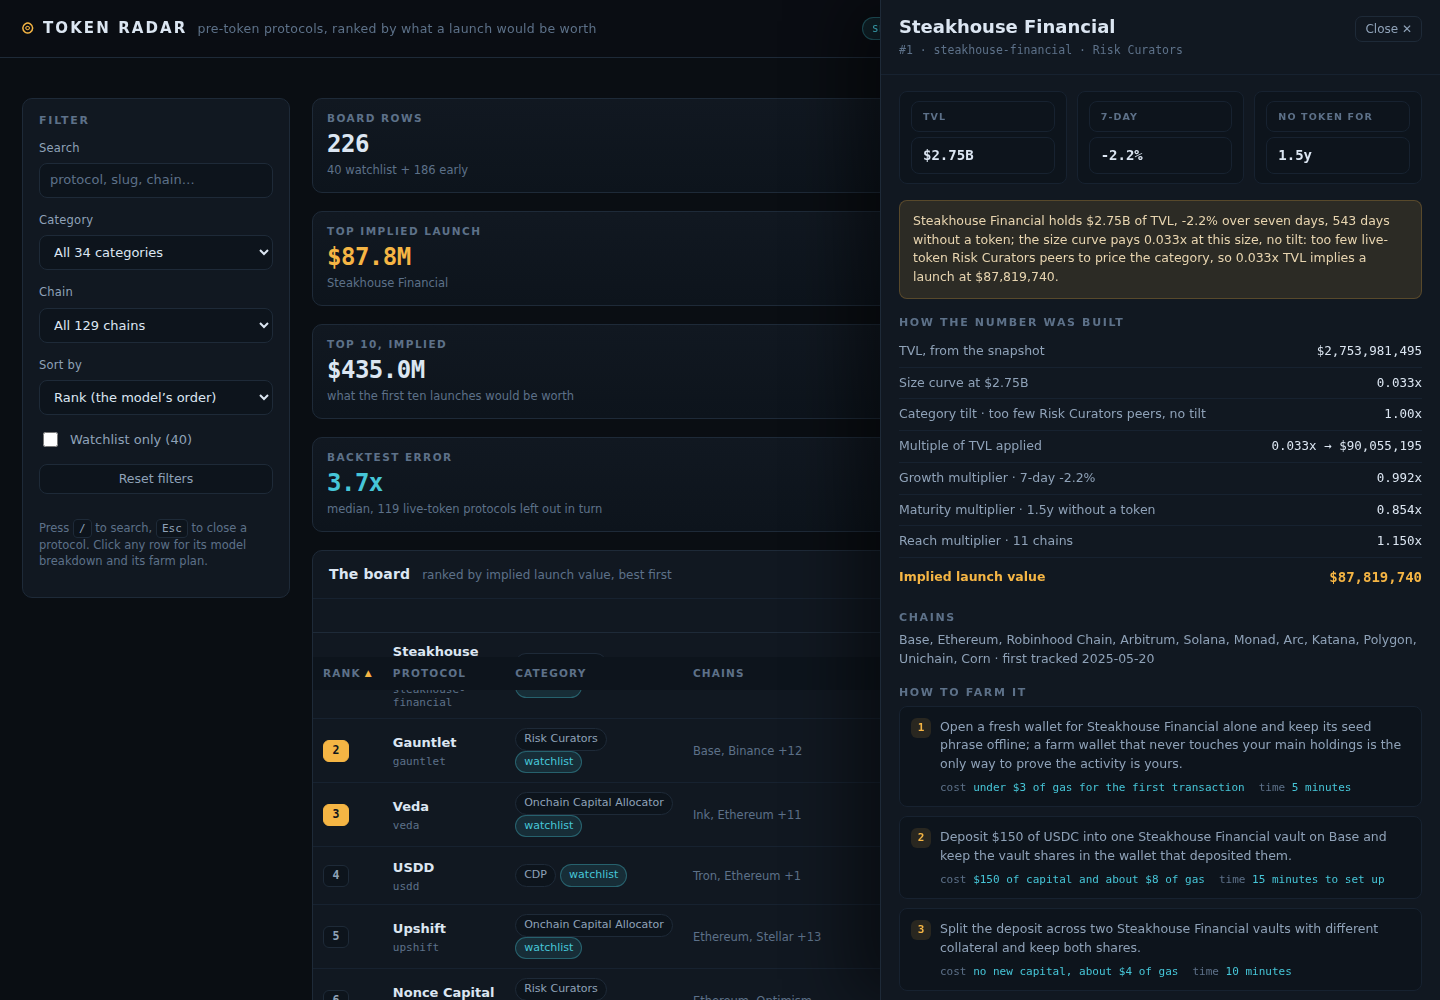
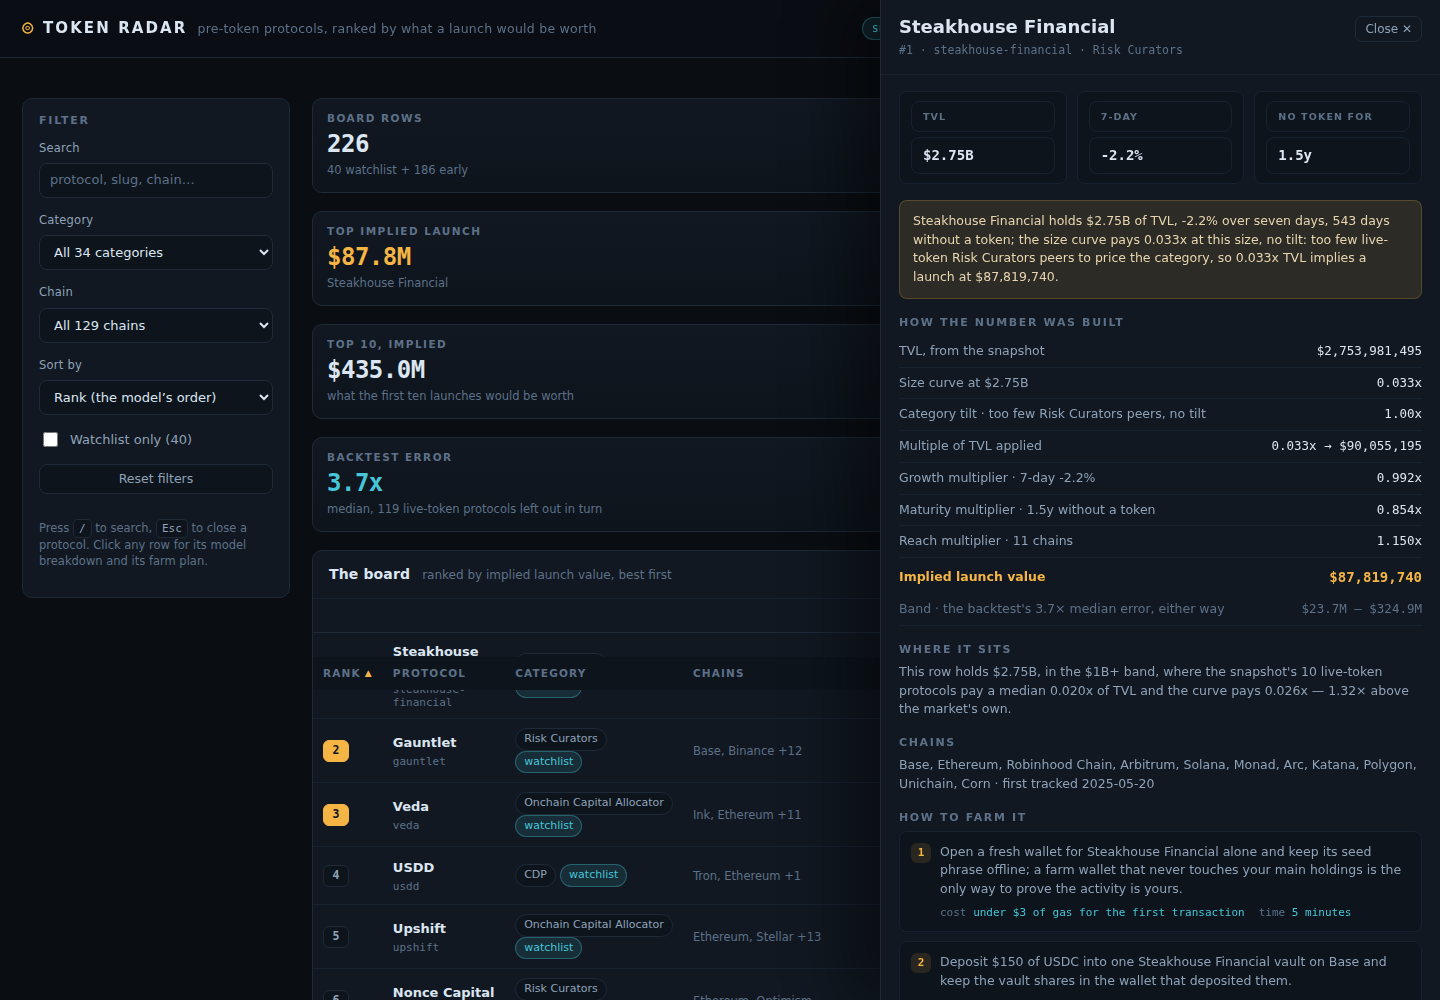
Ship the model as a document the judge actually reads
The dossier carries only dashboard/ source, so the model's reasoning lived
outside the artifact: lib/model.ts is not in the text a judge is shown. MODEL.md
now sits in dashboard/ and sorts first, so the fit, the tilt, the backtest, the
coverage and the model's own limits are read before a line of code.

Every row also carries the backtest's band: the detail view prints the range its
3.7x median error implies and the row's TVL band against the market's own median
multiple there.

Changed region(s): [[0.625, 0.589, 0.9688, 0.992]]

diff --git a/dashboard/app.js b/dashboard/app.js
@@ -322,6 +322,16 @@
       </section>`;
   }
 
+  /** The row's TVL band, the market's median multiple there, and what the curve pays: the row's context. */
+  function bandNote(r) {
+    const idx = r.tvl_usd < 1e7 ? 0 : r.tvl_usd < 1e8 ? 1 : r.tvl_usd < 1e9 ? 2 : 3;
+    const b = R.validation.bands[idx];
+    if (!b) return '';
+    const gap = b.curve / b.actual;
+    const word = gap >= 1 ? 'above' : 'below';
+    return `This row holds ${usd(r.tvl_usd)}, in the ${esc(b.label)} band, where the snapshot's ${b.n} live-token protocols pay a median ${mult(b.actual)} of TVL and the curve pays ${mult(b.curve)} — ${(gap >= 1 ? gap : 1 / gap).toFixed(2)}× ${word} the market's own.`;
+  }
+
   // ---------- the detail view ----------
 
   function detail(slug) {
@@ -359,7 +369,10 @@
           <tr><td>Maturity multiplier · ${days(r.age_days)} without a token</td><td>${r.maturity_multiplier.toFixed(3)}x</td></tr>
           <tr><td>Reach multiplier · ${r.chains.length} chain${r.chains.length === 1 ? '' : 's'}</td><td>${r.chain_multiplier.toFixed(3)}x</td></tr>
           <tr class="total"><td>Implied launch value</td><td>${full(r.implied_value_usd)}</td></tr>
+          <tr><td style="color:var(--ink-faint)">Band · the backtest's ${R.validation.median_error.toFixed(1)}× median error, either way</td><td style="color:var(--ink-faint)">${usd(r.implied_value_usd / R.validation.median_error)} – ${usd(r.implied_value_usd * R.validation.median_error)}</td></tr>
         </table>
+        <h3>Where it sits</h3>
+        <p style="margin:0;color:var(--ink-dim);font-size:12.5px">${bandNote(r)}</p>
         <h3>Chains</h3>
         <p style="margin:0;color:var(--ink-dim);font-size:12.5px">${esc(r.chains.join(', ') || 'not recorded')}${r.listed_at ? ` · first tracked ${esc(r.listed_at)}` : ''}</p>
         <h3>How to farm it</h3>

diff --git a/dashboard/MODEL.md b/dashboard/MODEL.md
@@ -1,0 +1,121 @@
+# How the radar prices a launch
+
+This page answers one question for 226 protocols: **if this protocol issued a token today, what would it
+be worth, and what should you do about it?** Every number on the board comes from one sealed snapshot of
+DefiLlama's protocol list, and every number can be re-derived from that snapshot alone. Nothing is
+hand-tuned per protocol, and no protocol's name appears anywhere in the model.
+
+## The one line
+
+```
+implied = TVL × curve(TVL) × tilt × growth × maturity × reach
+```
+
+`implied` is a whole number of dollars, and it is the board's rank key: rank 1 is the highest.
+
+## The curve: what the market already pays
+
+A protocol's TVL is not its token's value — a token's value is a *multiple* of TVL, and that multiple is
+not constant. The snapshot carries 128 protocols whose token already trades, with both their TVL and
+their market cap, so the market's own price per dollar of TVL can be measured instead of assumed. Fit a
+line through those 128 points in log-log space:
+
+```
+log2(market cap) = a + b × log2(TVL)
+```
+
+and the multiple of TVL at any size falls out of it as `2^a × TVL^(b-1)`. On this snapshot the fit gives
+`b ≈ 0.52`, so the multiple *falls* with size: about 0.5× at $10M of TVL, 0.09× at $100M, 0.03× at $1B.
+That is the single most important fact in this dataset, and a model that prices every protocol at one
+flat multiple — the obvious first implementation — gets it badly wrong at both ends.
+
+The coefficients are refitted from whatever snapshot the program is handed, at build time. There is no
+hardcoded constant and no cached curve: `fitSizeCurve()` in `lib/model.ts` runs on the snapshot, and the
+page prints the `a` and `b` it produced.
+
+## The tilt: a category that the market pays more for
+
+Two protocols of the same size are not worth the same if the market pays their category differently. For
+each category with at least three live-token peers, take the median `market cap ÷ TVL` of those peers
+against the whole market's median, take the square root (half the difference, so a category can lean the
+value but not set it), and clamp to 0.6–1.6:
+
+```
+tilt = clamp( sqrt(category median multiple ÷ market median multiple), 0.6, 1.6 )
+```
+
+A category with fewer than three live-token peers gets no tilt — one outlier is not a category price —
+and the row says `curve` instead of a tilt in the table. The square root and the clamp are deliberate: a
+category with three wild peers should not outrank a protocol ten times its size.
+
+## The three multipliers that are not size
+
+- **growth** — `1 + clamp(change_7d, −50, +100)% × 0.35`. Clamped at both ends: a −80% collapse is not a
+  launch signal and a +300% week is not a valuation. The 0.35 weight keeps it an adjustment.
+- **maturity** — `0.72 + min(age_days, 1460) ÷ 1460 × 0.36`. Age is the days the snapshot has tracked the
+  protocol with no token. A protocol that has held deposits for four years without issuing a token has
+  more of a launch behind it than one listed last month; past four years the multiplier stops growing.
+- **reach** — `1 + 0.05 × (min(chains, 4) − 1)`. A protocol deployed on four chains has more surface to
+  farm and more places to be counted, and past four chains the multiplier stops growing.
+
+The backtest below is why these three are small: TVL carries most of the signal, and a model that let
+growth and age dominate would rank worse, not better.
+
+## Does it work? The backtest
+
+The honest question about any valuation model is what it does on protocols whose answer is already known.
+So the program runs one on itself: for each of the 119 live-token protocols with a market cap, refit the
+curve *without that protocol*, measure its category tilt *without that protocol*, price it with the same
+function the board uses, and compare.
+
+| Measure | Result |
+| --- | --- |
+| Protocols tested (left out one at a time) | 119 |
+| Median error | 3.7× either way |
+| Within a factor of two | 34% |
+| Rank correlation with the market's own cap | 0.35 |
+
+And the curve is calibrated in a way that matters more than any single call: in every TVL band, the
+multiple the curve pays lands within a third of the median multiple the market actually pays there.
+
+| TVL band | Protocols | Market's median multiple | What the curve pays |
+| --- | --- | --- | --- |
+| $5M–10M | 27 | 0.654× | 0.566× |
+| $10M–100M | 66 | 0.302× | 0.277× |
+| $100M–1B | 16 | 0.082× | 0.092× |
+| $1B+ | 10 | 0.020× | 0.026× |
+
+**Read that table before you trust a row.** A market cap is not a function of TVL alone: float, supply,
+unlock schedule and liquidity all move it, and the snapshot carries none of them. So the model calls the
+*size* of a launch, not its price. The 3.7× median error is the band a single row sits in, and the page
+prints it next to the number instead of hiding it. What the model is good for is what the board uses it
+for: putting 226 protocols in an order a reader can act on, with the reasoning visible.
+
+## Coverage: every protocol is accounted for
+
+The snapshot holds 758 protocols. All 758 are accounted for, and the page says where each one went:
+
+- **226 ranked** — every pre-token protocol the watchlist's rules leave in scope, all 40 watchlist
+  protocols among them.
+- **128 already trading** — shown apart, at the market's own value. They are never mixed into the board,
+  because a protocol whose token exists is not a launch to price; they are the model's input.
+- **404 out of scope** — 42 centralised exchanges, 11 versioned pools of another protocol, and the rest
+  wrapped, staked or bridged products of another protocol. A wrapped or staked product of a token that
+  already trades is not a protocol waiting on a launch of its own.
+
+## The farm plan
+
+Every ranked row carries seven steps, each with what it costs and how long it takes: the wallet, the
+position, the second action the protocol's own accounting counts, the weekly cadence, the hold, the claim
+discipline (only from the protocol's own domain, never pay to claim), and the unwind plan. The steps are
+derived from the protocol's own record — category, chains, TVL, age — so a curator vault gets a vault
+plan and a perp desk gets a margin plan, and the capital each one asks for scales with the protocol's
+size.
+
+## What this model does not claim
+
+- It does not predict **whether** a token is issued, or when. It prices the token a protocol's record
+  implies, if one came.
+- It does not know float, supply, unlock or liquidity — none of them are in the snapshot.
+- It does not read news, governance or a roadmap. Two protocols with the same record get the same number.
+- A 3.7× median error is wide. The board is a ranking with a stated band, not a price target.
